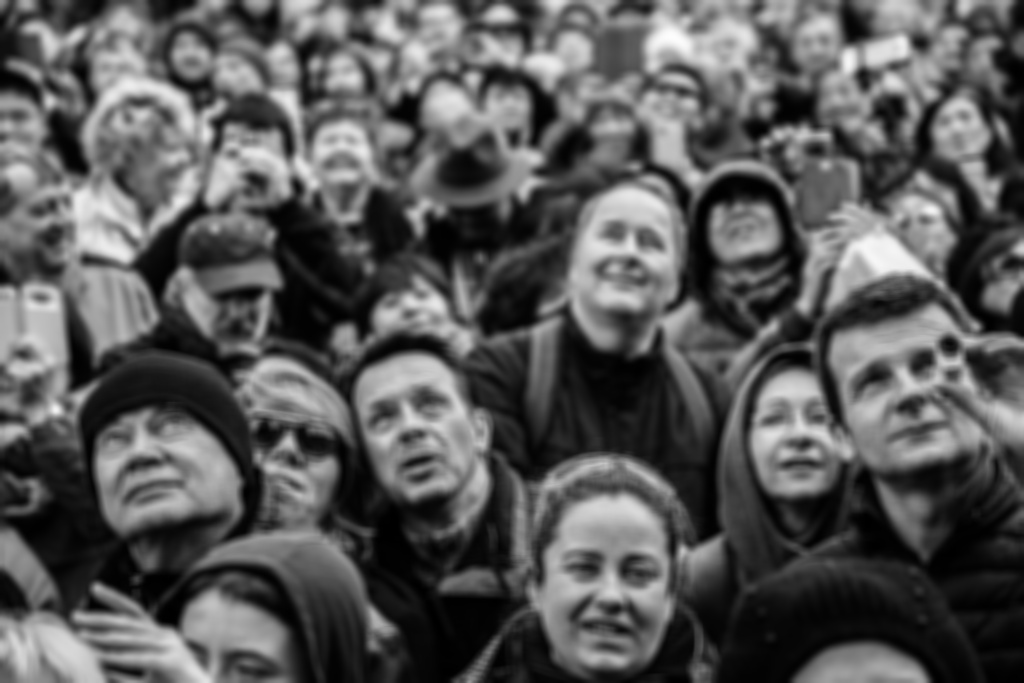
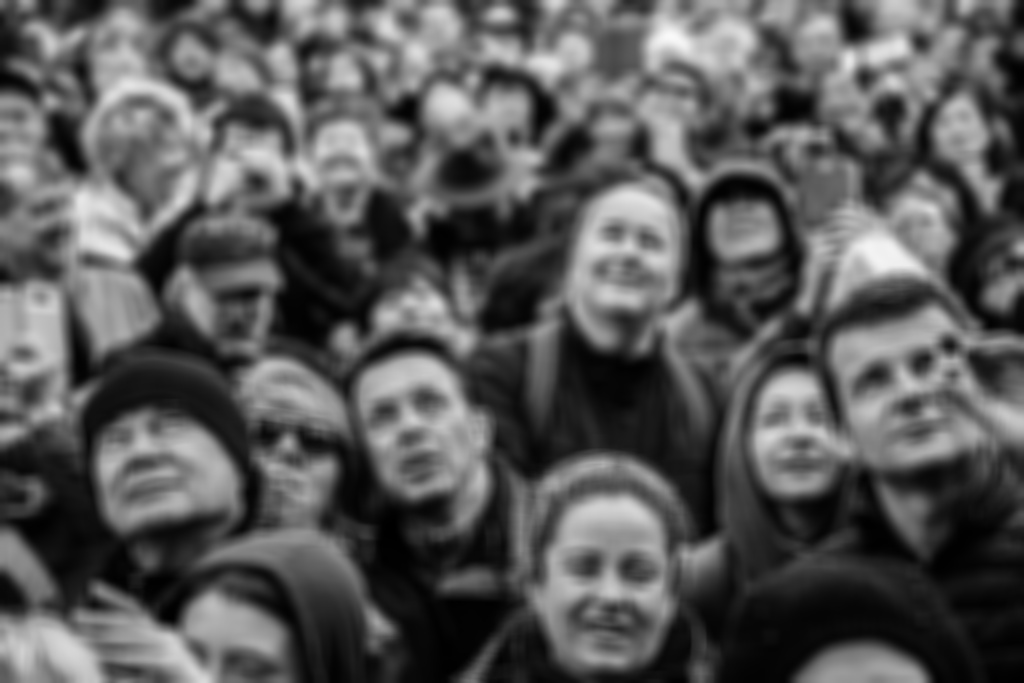
fix gray to color

diff --git a/hw04/main.py b/hw04/main.py
@@ -4,18 +4,18 @@ import numpy as np
 k = 0.7
 
 if __name__=="__main__":
-    img = cv2.imread('human.jpg',cv2.IMREAD_GRAYSCALE)
-    averageBlur = cv2.blur(img,(9,9))
-    mediumBlur = cv2.medianBlur(img,9)
+    img = cv2.imread('human.jpg', cv2.IMREAD_COLOR)
+    averageBlur = cv2.blur(img,(15,15))
+    mediumBlur = cv2.medianBlur(img,15)
 
     cv2.imshow("origin",img)
-    cv2.imshow("blur",averageBlur)
+    cv2.imshow("averageBlur",averageBlur)
     cv2.imshow("mediumBlur",mediumBlur)
-    cv2.imwrite('blur.jpg', averageBlur)
+    cv2.imwrite('averageBlur.jpg', averageBlur)
     cv2.imwrite('mediumBlur.jpg', mediumBlur)
 
-    unsharpMaskingAverage = (img - averageBlur)*k + img
-    unsharpMaskingMedian = (img - mediumBlur)*k + img
+    unsharpMaskingAverage = cv2.addWeighted(img,k+1,averageBlur,-k,0)
+    unsharpMaskingMedian = cv2.addWeighted(img,k+1,mediumBlur,-k,0)
     cv2.imshow("unsharpMaskingAverage",unsharpMaskingAverage.astype(np.uint8))
     cv2.imshow("unsharpMaskingMedian",unsharpMaskingMedian.astype(np.uint8))
     cv2.imwrite('unsharpMaskingAverage.jpg', unsharpMaskingAverage.astype(np.uint8))
